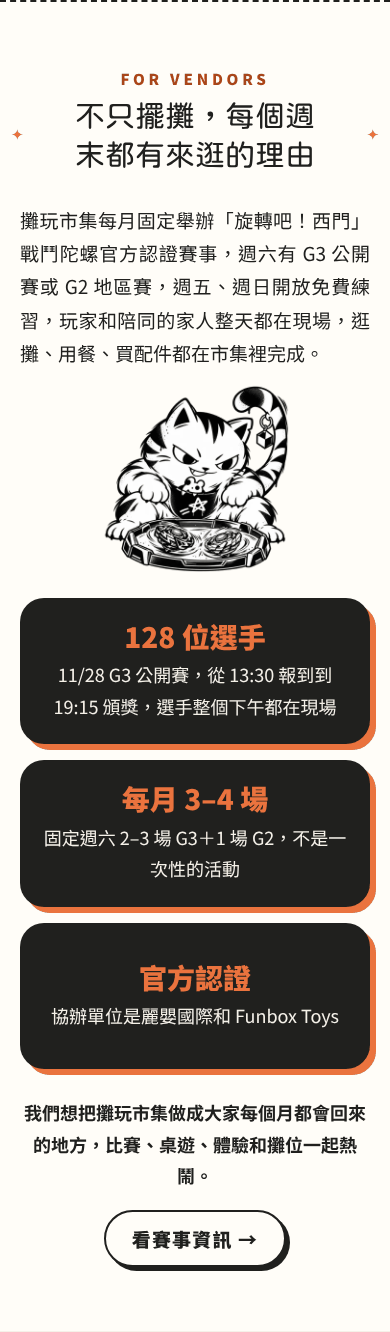
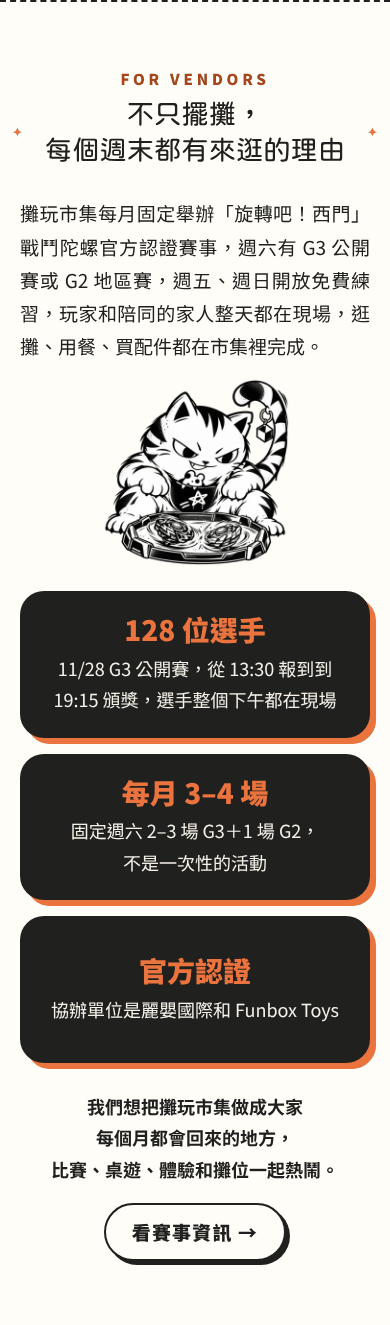
Fix mobile line breaks in the vendors section
Break the heading after the comma, keep 不是一次性的活動 on one line and
stop the closing sentence from leaving a lone 鬧。. Text unchanged;
.nobr moves to styles.css so both pages share it.

Claude-Session: https://claude.ai/code/session_012dQHuckgmktwtxDEBvdD1o

diff --git a/index.html b/index.html
@@ -210,7 +210,7 @@
       <div class="container">
         <header class="section-head">
           <p class="eyebrow">FOR VENDORS</p>
-          <h2 id="vendors-why-title">不只擺攤，每個週末都有來逛的理由</h2>
+          <h2 id="vendors-why-title"><span class="nobr">不只擺攤，</span><span class="nobr">每個週末都有來逛的理由</span></h2>
         </header>
 
         <div class="vendors-why-intro">
@@ -225,7 +225,7 @@
           </li>
           <li class="vendors-why-card">
             <strong>每月 3–4 場</strong>
-            <span>固定週六 2–3 場 G3＋1 場 G2，不是一次性的活動</span>
+            <span>固定週六 2–3 場 G3＋1 場 G2，<span class="nobr">不是一次性的活動</span></span>
           </li>
           <li class="vendors-why-card">
             <strong>官方認證</strong>
@@ -234,7 +234,7 @@
         </ul>
 
         <div class="vendors-why-outro">
-          <p>我們想把攤玩市集做成大家每個月都會回來的地方，比賽、桌遊、體驗和攤位一起熱鬧。</p>
+          <p><span class="nobr">我們想把攤玩市集做成大家</span><span class="nobr">每個月都會回來的地方，</span><span class="nobr">比賽、桌遊、體驗和攤位一起熱鬧。</span></p>
           <a class="btn btn-ghost" href="cup/">看賽事資訊 →</a>
         </div>
       </div>

diff --git a/styles.css b/styles.css
@@ -342,6 +342,9 @@ a { color: inherit; }
 /* ---------- 旋轉吧！西門 活動字標（首頁橫幅） ---------- */
 .cup-promo-title .cup-promo-event { width: min(72%, 320px); margin: 0 auto 4px; }
 
+/* 不在中間斷行的文字片段（首頁與 /cup/ 共用） */
+.nobr { display: inline-block; }
+
 /* ---------- 首頁：給攤商｜每個週末都有來逛的理由 ---------- */
 .vendors-why {
   background-color: var(--white);
@@ -378,6 +381,9 @@ a { color: inherit; }
 }
 .vendors-why-outro { text-align: center; }
 .vendors-why-outro p { font-weight: 700; }
+@media (max-width: 959px) {
+  .vendors-why .section-head h2 { font-size: min(clamp(1.875rem, 5.5vw, 2.625rem), 7vw); }
+}
 @media (min-width: 960px) {
   .vendors-why-intro { grid-template-columns: 1fr 220px; gap: 40px; }
   .vendors-why-cat { width: 100%; }

diff --git a/cup/cup.css b/cup/cup.css
@@ -3,8 +3,6 @@
    共用 ../styles.css 的品牌色、按鈕、區塊、FAQ、頁尾
    ========================================================= */
 
-.nobr { display: inline-block; }
-
 .cup-page .header-nav a,
 .cup-page .header-inner .btn { white-space: nowrap; }
 
